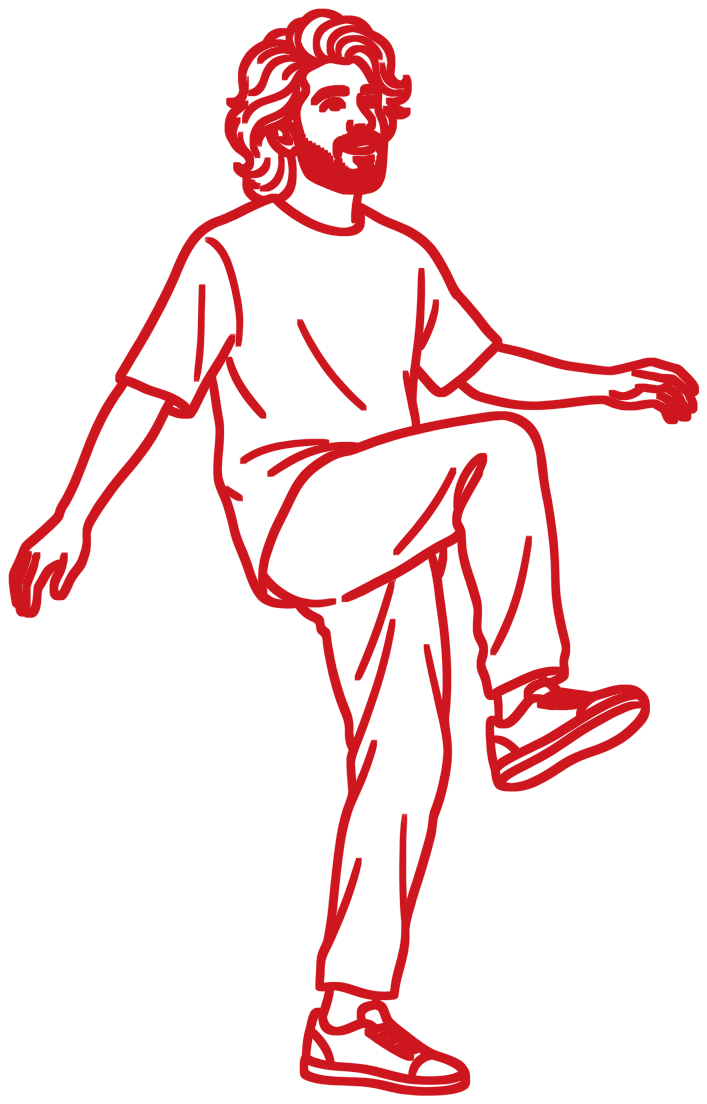
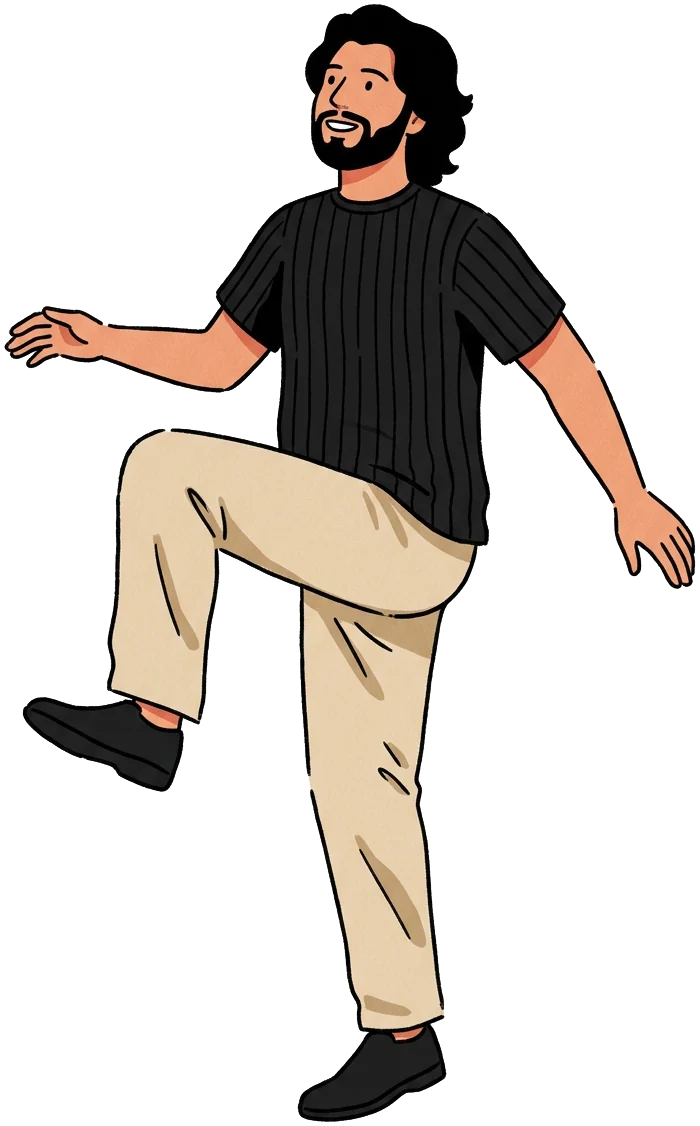
v131: welcome drawings in the flat-colour editorial style
- Keepy-ups and shoulder press redrawn in Sijo's reference style: flat colour, bold black outlines
- Football and accents re-styled to match; ball re-anchored to the new raised foot

Claude-Session: https://claude.ai/code/session_013G15fzCMwgXvJexXZMdXm4

diff --git a/index.html b/index.html
@@ -24,11 +24,11 @@
   <meta property="og:image:height" content="630">
   <meta property="og:image:alt" content="Sijo Joseph, product, UX and AI designer, with four case study covers">
   <meta name="twitter:card" content="summary_large_image">
-  <script src="update.js?v=130"></script>
-  <script src="gate.js?v=130"></script>
-  <link href="fonts/fonts.css?v=130" rel="stylesheet">
-  <link rel="stylesheet" href="styles.css?v=130">
-  <link rel="stylesheet" href="reader.css?v=130">
+  <script src="update.js?v=131"></script>
+  <script src="gate.js?v=131"></script>
+  <link href="fonts/fonts.css?v=131" rel="stylesheet">
+  <link rel="stylesheet" href="styles.css?v=131">
+  <link rel="stylesheet" href="reader.css?v=131">
   <script type="importmap">
   {
     "imports": {
@@ -42,10 +42,10 @@
   <link rel="modulepreload" href="vendor/three/examples/jsm/loaders/GLTFLoader.js">
   <link rel="modulepreload" href="vendor/three/examples/jsm/controls/OrbitControls.js">
   <link rel="modulepreload" href="vendor/three/examples/jsm/libs/meshopt_decoder.module.js">
-  <link rel="modulepreload" href="main.js?v=130">
-  <link rel="modulepreload" href="sound.js?v=130">
-  <link rel="modulepreload" href="room-utils.js?v=130">
-  <link rel="modulepreload" href="cat.js?v=130">
+  <link rel="modulepreload" href="main.js?v=131">
+  <link rel="modulepreload" href="sound.js?v=131">
+  <link rel="modulepreload" href="room-utils.js?v=131">
+  <link rel="modulepreload" href="cat.js?v=131">
   <script type="application/ld+json">{"@context": "https://schema.org", "@type": "Person", "name": "Sijo Joseph", "url": "https://sijo.work/", "jobTitle": "Product, UX and AI designer", "alumniOf": {"@type": "CollegeOrUniversity", "name": "National Institute of Design, Bengaluru"}, "address": {"@type": "PostalAddress", "addressLocality": "Bengaluru", "addressCountry": "IN"}, "sameAs": ["https://www.linkedin.com/in/sijodesign", "https://github.com/sijojoseph7509-a11y"], "knowsAbout": ["Product design", "UX design", "Interaction design", "Information design", "Wayfinding", "Brand identity", "AI-assisted prototyping"]}</script>
 </head>
 <body>
@@ -88,16 +88,16 @@
 
   <!-- Loader -->
   <div class="loader" id="loader">
-    <!-- Sijo (keepy-ups left, shoulder press right) and Shea, in the red ink of the cloud's handwriting (Figma AI, line only), animated in CSS around the welcome card -->
+    <!-- Sijo (keepy-ups left, shoulder press right) in a flat-colour editorial style (Figma AI), and Shea in red line; animated in CSS around the welcome card -->
     <div class="wl-ill wl-juggle" aria-hidden="true">
-      <img src="assets/welcome/juggle.webp" alt="" width="707" height="1104" decoding="async">
-      <svg viewBox="0 0 707 1104"><g class="wl-kick" stroke="#CE161E" stroke-width="6" stroke-linecap="round"><path d="M512,690 l-26,6 M518,714 l-28,14 M622,686 l26,-8"/></g><g class="wl-ball"><g class="wl-spin"><circle r="54" fill="none" stroke="#CE161E" stroke-width="6.8"/><path d="M0,-18.9 L18.0,-5.8 L11.1,15.3 L-11.1,15.3 L-18.0,-5.8 Z" fill="#CE161E"/><path d="M0,-18.9 V-49.7 M18.0,-5.8 L47.0,-15.1 M11.1,15.3 L28.6,41.6 M-11.1,15.3 L-28.6,41.6 M-18.0,-5.8 L-47.0,-15.1" stroke="#CE161E" stroke-width="6.0" stroke-linecap="round" fill="none"/></g></g></svg>
+      <img src="assets/welcome/juggle.webp" alt="" width="700" height="1126" decoding="async">
+      <svg viewBox="0 0 700 1126"><g class="wl-kick" stroke="#161616" stroke-width="7" stroke-linecap="round"><path d="M14,690 l-26,8 M22,716 l-26,16 M136,688 l26,-8"/></g><g class="wl-ball"><g class="wl-spin"><circle r="52" fill="#fff" stroke="#161616" stroke-width="6"/><path d="M0,-18.2 L17.3,-5.6 L10.7,14.7 L-10.7,14.7 L-17.3,-5.6 Z" fill="#161616"/><path d="M0,-18.2 V-47.8 M17.3,-5.6 L45.2,-14.6 M10.7,14.7 L27.6,40.0 M-10.7,14.7 L-27.6,40.0 M-17.3,-5.6 L-45.2,-14.6" stroke="#161616" stroke-width="5" stroke-linecap="round" fill="none"/></g></g></svg>
     </div>
     <div class="wl-ill wl-lift" aria-hidden="true">
-      <img src="assets/welcome/lift.webp" alt="" width="516" height="1148" decoding="async">
-      <svg viewBox="0 0 516 1148"><g class="wl-effort" stroke="#CE161E" stroke-width="6" stroke-linecap="round" fill="none"><path d="M20,40 l-22,-14 M14,78 l-26,0 M480,70 l24,-14 M488,108 l26,0"/></g>
-        <path class="wl-sweat" d="M352,190 q-12,20 0,26 q12,-6 0,-26 Z" fill="none" stroke="#CE161E" stroke-width="5"/>
-        <text class="wl-reps" x="560" y="640"><tspan class="r1">8</tspan><tspan class="r2" x="560">9</tspan><tspan class="r3" x="560">10!</tspan></text></svg>
+      <img src="assets/welcome/lift.webp" alt="" width="647" height="1135" decoding="async">
+      <svg viewBox="0 0 647 1135"><g class="wl-effort" stroke="#161616" stroke-width="7" stroke-linecap="round" fill="none"><path d="M-6,40 l-24,-14 M-12,80 l-28,0 M654,36 l24,-14 M660,76 l28,0"/></g>
+        <path class="wl-sweat" d="M402,120 q-14,22 0,30 q14,-8 0,-30 Z" fill="#fff" stroke="#161616" stroke-width="5"/>
+        <text class="wl-reps" x="680" y="620"><tspan class="r1">8</tspan><tspan class="r2" x="680">9</tspan><tspan class="r3" x="680">10!</tspan></text></svg>
     </div>
     <div class="wl-shea" aria-hidden="true">
       <div class="wl-shea-ball"><svg viewBox="-46 -46 92 92"><g class="wl-spin"><circle r="40" fill="none" stroke="#CE161E" stroke-width="5.0"/><path d="M0,-14.0 L13.3,-4.3 L8.2,11.3 L-8.2,11.3 L-13.3,-4.3 Z" fill="#CE161E"/><path d="M0,-14.0 V-36.8 M13.3,-4.3 L34.8,-11.2 M8.2,11.3 L21.2,30.8 M-8.2,11.3 L-21.2,30.8 M-13.3,-4.3 L-34.8,-11.2" stroke="#CE161E" stroke-width="4.4" stroke-linecap="round" fill="none"/></g></svg></div>
@@ -204,11 +204,11 @@
     </div>
   </noscript>
 
-  <script src="content.js?v=130"></script>
-  <script src="track.js?v=130"></script>
-  <script src="icons.js?v=130"></script>
-  <script src="os.js?v=130"></script>
-  <script src="music.js?v=130"></script>
-  <script type="module" src="main.js?v=130"></script>
+  <script src="content.js?v=131"></script>
+  <script src="track.js?v=131"></script>
+  <script src="icons.js?v=131"></script>
+  <script src="os.js?v=131"></script>
+  <script src="music.js?v=131"></script>
+  <script type="module" src="main.js?v=131"></script>
 </body>
 </html>

diff --git a/styles.css b/styles.css
@@ -690,22 +690,22 @@ button.card .cover::before, button.card .cover::after { display: none; }   /* re
 .loader.ready .intro-go { margin-top: 30px; }
 .loader.ready .intro-quiet { margin-top: 14px; }
 
-/* the drawings: keepy-ups on the left of the card, the shoulder press on the right */
+/* the drawings: keepy-ups on the left of the card, the shoulder press on the right (flat-colour editorial style) */
 .wl-ill { position: absolute; z-index: 1; pointer-events: none; }
 .wl-ill img, .wl-ill svg { display: block; width: 100%; height: auto; }
 .wl-ill svg { position: absolute; inset: 0; height: 100%; overflow: visible; }
-.wl-ill text { font-family: "Caveat", "Comic Sans MS", cursive; font-weight: 700; fill: #CE161E; paint-order: stroke; stroke: none; }
-.wl-juggle { left: 7vw; top: 50%; height: min(58vh, 600px); aspect-ratio: 707 / 1104; transform: translateY(-48%); }
-.wl-lift { right: 9vw; top: 50%; height: min(58vh, 600px); aspect-ratio: 516 / 1148; transform: translateY(-48%); }
+.wl-ill text { font-family: "Caveat", "Comic Sans MS", cursive; font-weight: 700; fill: #161616; }
+.wl-juggle { left: 7vw; top: 50%; height: min(58vh, 600px); aspect-ratio: 700 / 1126; transform: translateY(-48%); }
+.wl-lift { right: 9vw; top: 50%; height: min(58vh, 600px); aspect-ratio: 647 / 1135; transform: translateY(-48%); }
 .wl-ill img { animation: wlBoil .5s steps(1) infinite; }
 @keyframes wlBoil { 0% { translate: 0 0; } 33% { translate: .4px -.3px; } 66% { translate: -.3px .3px; } }
 
 /* keepy-ups: the ball pops off the raised foot and drops back, spinning; he bobs on each touch */
-.wl-juggle img { transform-origin: 40% 100%; animation: wlTouch 1.1s cubic-bezier(.3,.6,.4,1) infinite, wlBoil .5s steps(1) infinite; }
+.wl-juggle img { transform-origin: 62% 100%; animation: wlTouch 1.1s cubic-bezier(.3,.6,.4,1) infinite, wlBoil .5s steps(1) infinite; }
 @keyframes wlTouch { 0%, 100% { transform: none; } 8% { transform: translateY(-5px) rotate(-1.2deg); } 32% { transform: none; } }
 .wl-ball { animation: wlUp 1.1s infinite; }
-@keyframes wlUp { 0% { transform: translate(570px, 632px); animation-timing-function: cubic-bezier(.15,.7,.35,1); }
-  50% { transform: translate(540px, 114px); animation-timing-function: cubic-bezier(.65,0,.85,.3); } 100% { transform: translate(570px, 632px); } }
+@keyframes wlUp { 0% { transform: translate(73px, 644px); animation-timing-function: cubic-bezier(.15,.7,.35,1); }
+  50% { transform: translate(150px, 110px); animation-timing-function: cubic-bezier(.65,0,.85,.3); } 100% { transform: translate(73px, 644px); } }
 .wl-spin { animation: wlSpin 1.1s linear infinite; } @keyframes wlSpin { to { rotate: 360deg; } }
 .wl-kick { opacity: 0; animation: wlKick 1.1s infinite; } @keyframes wlKick { 0%, 14% { opacity: 1; } 22%, 100% { opacity: 0; } }
 
@@ -742,7 +742,7 @@ button.card .cover::before, button.card .cover::after { display: none; }   /* re
 @media (max-height: 460px) { .wl-shea { display: none; } }
 @media (prefers-reduced-motion: reduce) {
   .wl-ill img, .wl-ball, .wl-spin, .wl-kick, .wl-effort, .wl-sweat, .wl-reps tspan { animation: none; }
-  .wl-ball { transform: translate(550px, 360px); } .wl-reps .r3 { opacity: 1; } .wl-shea { display: none; } }
+  .wl-ball { transform: translate(140px, 300px); } .wl-reps .r3 { opacity: 1; } .wl-shea { display: none; } }
 @media (max-height: 520px) {
   .loader { padding: 10px; }
   .loader .loader-inner, .loader.ready .loader-inner { padding: 16px 32px 12px; border-radius: 22px; }

diff --git a/main.js b/main.js
@@ -5,8 +5,8 @@ import { RoomEnvironment } from "three/addons/environments/RoomEnvironment.js";
 import { GLTFLoader } from "three/addons/loaders/GLTFLoader.js";
 import { MeshoptDecoder } from "three/addons/libs/meshopt_decoder.module.js";
 import { mergeGeometries } from "three/addons/utils/BufferGeometryUtils.js";
-import { Sound } from "./sound.js?v=130";
-import { sharpen, rr, bezier, tileNoise, wrapText } from "./room-utils.js?v=130";
+import { Sound } from "./sound.js?v=131";
+import { sharpen, rr, bezier, tileNoise, wrapText } from "./room-utils.js?v=131";
 
 const S = window.SITE;
 const TOUCH = matchMedia("(pointer: coarse)").matches;   // phones & tablets: say "tap", no hover effects

diff --git a/HANDOVER.md b/HANDOVER.md
@@ -405,6 +405,7 @@ explorations · sketches · side projects · ideas"), poster text, terminal mess
 - **v128:** Welcome drawings recoloured to near-black ink (#141414); red sky and red ink had about 1.3:1 contrast on the middle sky, black has 4.2:1 there and 11.5:1 on the cloud. Red (#CE161E) is kept only for the moving accents (ball patches, kick and effort lines, sweat, GOAL!, 8 9 10!, controller buzz, smoke, dug dug dug); the accent text has a thin black outline. The white keyline from v127 is removed.
 - **v129:** Welcome card: the name under the logo is removed (the logo carries role=img, aria-label "Sijo Joseph"). Spacing rebuilt with explicit margins instead of the old negative-margin offsets: logo 68px, hairline +26, greeting +18, welcome +34, tips +22, Enter +30, sound link +14; card 440px wide, padding 48/48/34. Short and phone screens keep the same order, tighter.
 - **v130:** Welcome drawings cut to two: keepy-ups on the left of the card, the shoulder press on the right (both min(58vh, 600px) tall, vertically centred); FIFA and the Bullet removed (assets deleted, still in Figma as nodes 13:2 and 12:2). Strokes back to the cloud's red (#CE161E) everywhere, overlays and Shea included; accent text without an outline. Shea still runs her laps.
+- **v131:** The two welcome drawings redrawn in Sijo's reference style (flat colour, bold slightly uneven black outlines, a few tone shapes, print grain): keepy-ups in a black ribbed tee and beige chinos (Figma node 14:2), shoulder press in a black ribbed tank and beige shorts (15:2). Cut out on transparent with the white inside kept. The football is now white with black patches; kick and effort lines, sweat and the count are black. Ball rests on the raised (left) shoe at (73,644) and rises to (150,110) in juggle.webp (700x1126); lift.webp 647x1135. Shea is still the red line drawing.
 - Work cards and About thumbnails use `case.coverSlide` when a project gives one (Syntra: `fx/cover-slide.webp`, 1440 × 900), otherwise the first section.
 - Desk folders: tab width now shares the edge (`TAB_W`), so 4+ projects never overlap.
 - ⚠ Testing note (14 Oct 2026): another session had an http-server on 127.0.0.1:4322 serving the `.claude/worktrees/goofy-solomon-8f688e` copy — always check `lsof -iTCP:<port>` or use a fresh port before trusting QA results.
